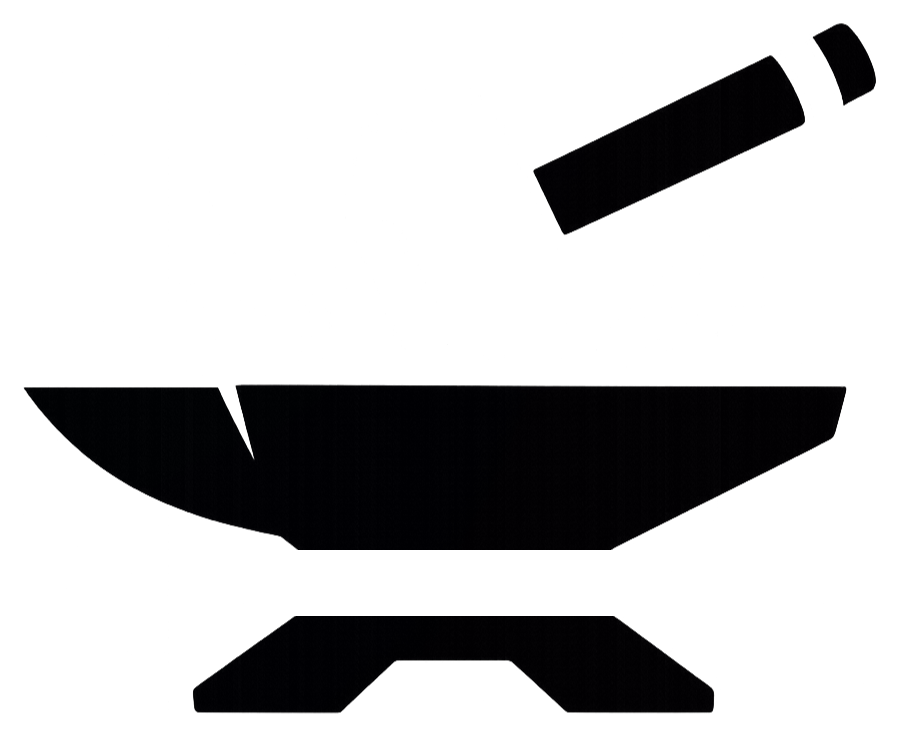
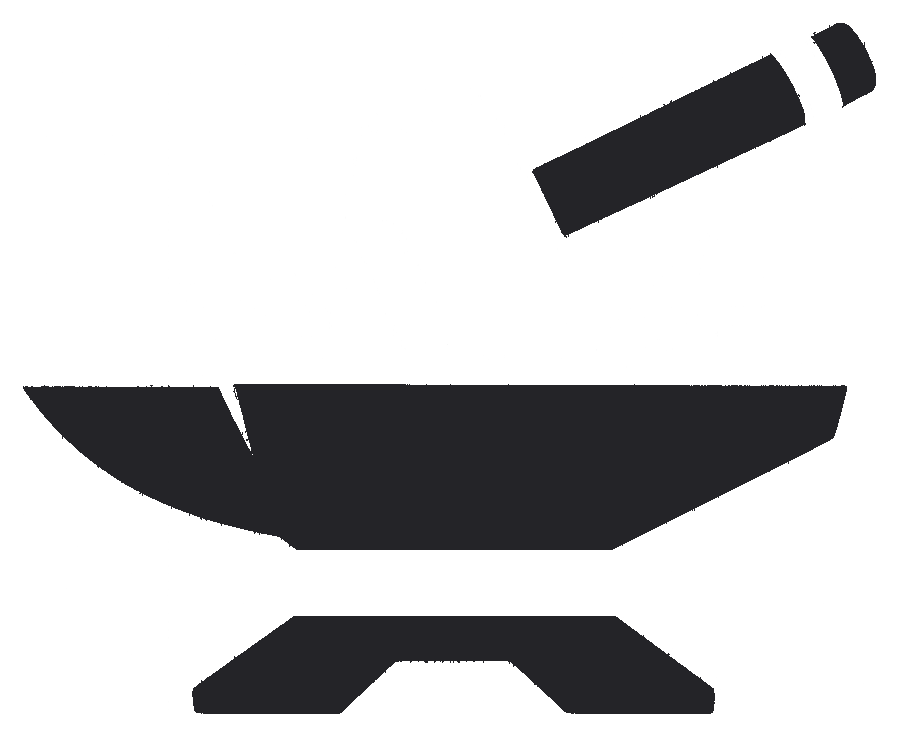
added templates tab

Changed region(s): [[0.031, 0.4874, 0.9623, 0.7311], [0.2173, 0.7921, 0.8071, 0.9444], [0.5898, 0.0305, 0.9933, 0.3046]]

diff --git a/svgcrafter/src/App.jsx b/svgcrafter/src/App.jsx
@@ -104,9 +104,9 @@ const familyFor = (fontId, embedFont) =>
 
 const TABS = [
   { id: "text", label: "Text" },
-  { id: "border", label: "Border" },
-  { id: "background", label: "Background" },
+  { id: "border-background", label: "Background" },
   { id: "effects", label: "Effects" },
+  { id: "templates", label: "Templates" },
 ];
 
 const MAX_SENTENCES = 6;
@@ -2723,7 +2723,9 @@ export default function App() {
               </>
             )}
 
-            {tab === "border" && (
+            {(tab === "border-background" ||
+              tab === "border" ||
+              tab === "background") && (
               <>
                 <Section
                   title="Border"
@@ -2774,11 +2776,6 @@ export default function App() {
                     />
                   </label>
                 </Section>
-              </>
-            )}
-
-            {tab === "background" && (
-              <>
                 <Section
                   title="Dimensions"
                   defaultOpen
@@ -2866,6 +2863,10 @@ export default function App() {
                 effects={config.effects}
                 onChange={(effects) => setConfig((c) => ({ ...c, effects }))}
               />
+            )}
+
+            {tab === "templates" && (
+              <div className="tab-empty">{/* Empty for now */}</div>
             )}
           </div>
         </aside>

diff --git a/svgcrafter/src/App.css b/svgcrafter/src/App.css
@@ -222,9 +222,14 @@ body {
   z-index: 1;
   display: flex;
   gap: 2px;
-  padding: 0 14px;
+  padding: 0 10px;
   background: var(--panel);
   border-bottom: 1px solid var(--border);
+  overflow-x: auto;
+  scrollbar-width: none;
+}
+.tabs::-webkit-scrollbar {
+  display: none;
 }
 .tab {
   background: none;
@@ -232,11 +237,13 @@ body {
   border-bottom: 2px solid transparent;
   color: var(--muted);
   font-family: var(--font-body);
-  font-size: 14px;
+  font-size: 13.5px;
   font-weight: 600;
-  padding: 14px 12px;
+  padding: 14px 10px;
   cursor: pointer;
   margin-bottom: -1px;
+  white-space: nowrap;
+  flex-shrink: 0;
   transition:
     color 0.15s,
     border-color 0.15s;
